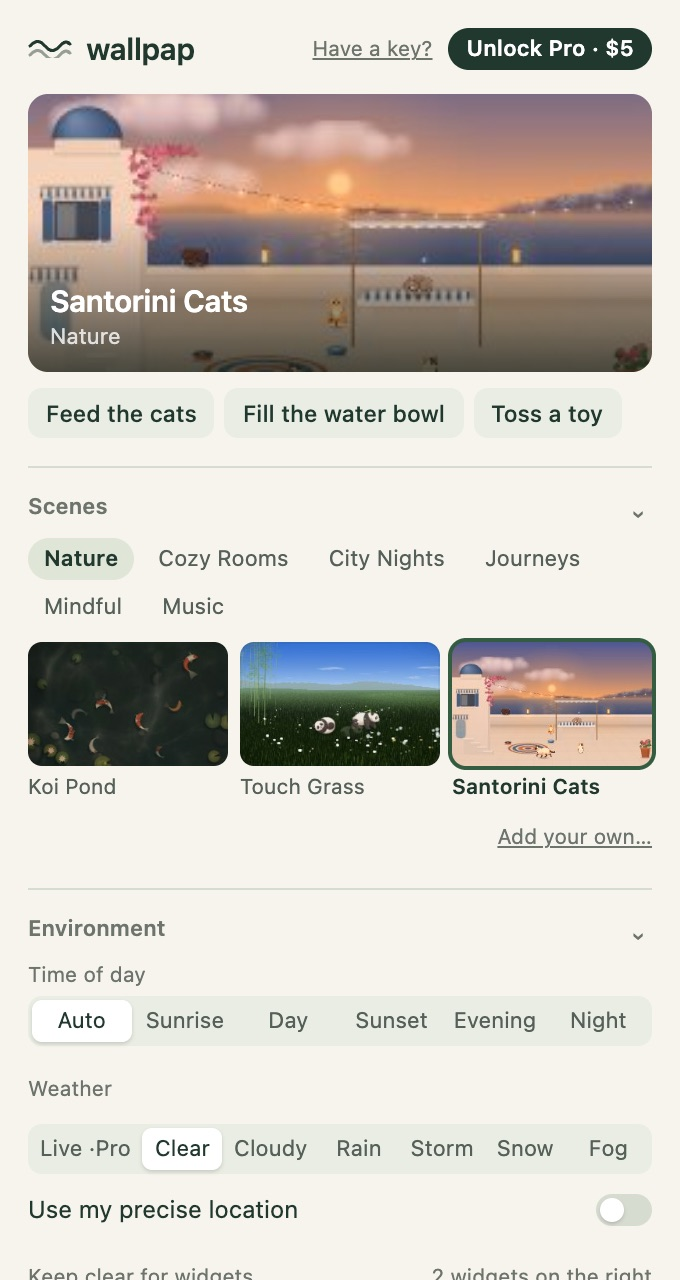
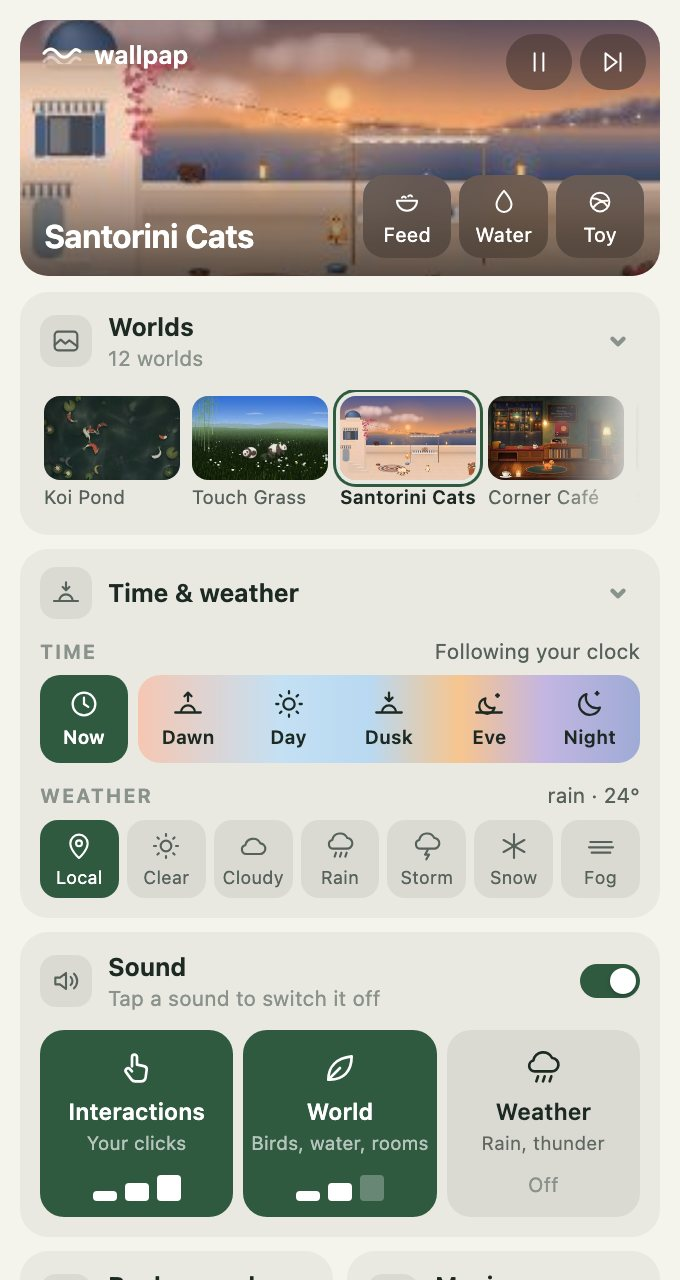
Site: new menu screenshot in the features; the hero's fullscreen wave opens the real menu

diff --git a/scenes/menu.html b/scenes/menu.html
@@ -456,9 +456,9 @@ function reportHeight() {
 if (host) send('ready');
 else { // standalone design preview: clicks change this mock state
   const M = {
-    pro: true, scene: 'cats', categories: ['Nature', 'Cozy Rooms', 'City Nights', 'Journeys', 'Mindful', 'Music'],
+    pro: true, scene: new URLSearchParams(location.search).get('scene') || 'cats', categories: ['Nature', 'Cozy Rooms', 'City Nights', 'Journeys', 'Mindful', 'Music'],
     scenes: [['koi', 'Koi Pond', 'Nature'], ['grass', 'Touch Grass', 'Nature'], ['cats', 'Santorini Cats', 'Nature'], ['cafe', 'Corner Café', 'Cozy Rooms', 1], ['cabin', 'Snowy Cabin', 'Cozy Rooms', 1], ['records', 'Record Store', 'Cozy Rooms', 1], ['speakeasy', 'Speakeasy', 'City Nights', 1], ['rooftop', 'Rooftop', 'City Nights', 1], ['ramen', 'Ramen Alley', 'City Nights', 1], ['train', 'Train Journey', 'Journeys', 1], ['bowls', 'Singing Bowls', 'Mindful'], ['cymatics', 'Cymatics', 'Music', 1]].map(([id, title, cat, m]) => ({ id, title, cat, pro: false, music: !!m })),
-    sceneCtl: [{ type: 'action', title: 'Feed the Cats', v: 'feed' }, { type: 'action', title: 'Fill the Water Bowl', v: 'water' }, { type: 'action', title: 'Toss a Toy', v: 'toy' }],
+    sceneCtl: (new URLSearchParams(location.search).get('scene') || 'cats') === 'cats' ? [{ type: 'action', title: 'Feed the Cats', v: 'feed' }, { type: 'action', title: 'Fill the Water Bowl', v: 'water' }, { type: 'action', title: 'Toss a Toy', v: 'toy' }] : [{ type: 'action', title: 'Pet the pup', v: 'pet' }],
     timeView: 'auto', weather: '', liveWeather: 'Live — rain · 24°', precise: false, muted: false,
     audio: [{ c: 'fx', on: true, vol: 1 }, { c: 'ambience', on: true, vol: 0.7 }, { c: 'weather', on: false, vol: 1 }],
     soundscape: 'off', ssVol: 0.35, music: false, musicDenied: false, beat: true, companions: 'native',

diff --git a/site/main.js b/site/main.js
@@ -1083,7 +1083,8 @@ const PG = {
       } else if (focus) wave.focus({ preventScroll: true });
       this.sync();
     };
-    h.onWave = (e) => { if (!inFs()) return false; this.setDrop(!this.dropOpen, e.detail === 0); return true; };
+    // The wave opens the real wallpap menu (scenes/menu.html) in fullscreen too; the old dropdown stays for no one.
+    h.onWave = () => false;
     document.addEventListener('pointerdown', (e) => { if (this.dropOpen && !e.target.closest('#panel, .wave-btn')) this.setDrop(false); }, true);
     h.on((type) => { if (type === 'down' && this.dropOpen) this.setDrop(false); });   // a click inside the scene
     new ResizeObserver(() => { if (this.dropOpen) placeDrop(); }).observe(screenEl);
@@ -1096,7 +1097,7 @@ const PG = {
         setSheet(false); Tour.stop();
         if (panel.parentNode !== screenEl) { panel.classList.add('as-drop'); screenEl.appendChild(panel); }
         wave.setAttribute('aria-controls', 'panel'); wave.setAttribute('aria-label', 'Show the controls');
-        h.note('Click the wave in the menu bar for the controls · Esc to exit', 4200);
+        h.note('Click the wave in the menu bar for wallpap’s menu · Esc to exit', 4200);
       } else {
         this.setDrop(false);
         if (panel.parentNode === screenEl) { panel.classList.remove('as-drop'); panel.style.left = ''; home.after(panel); }
